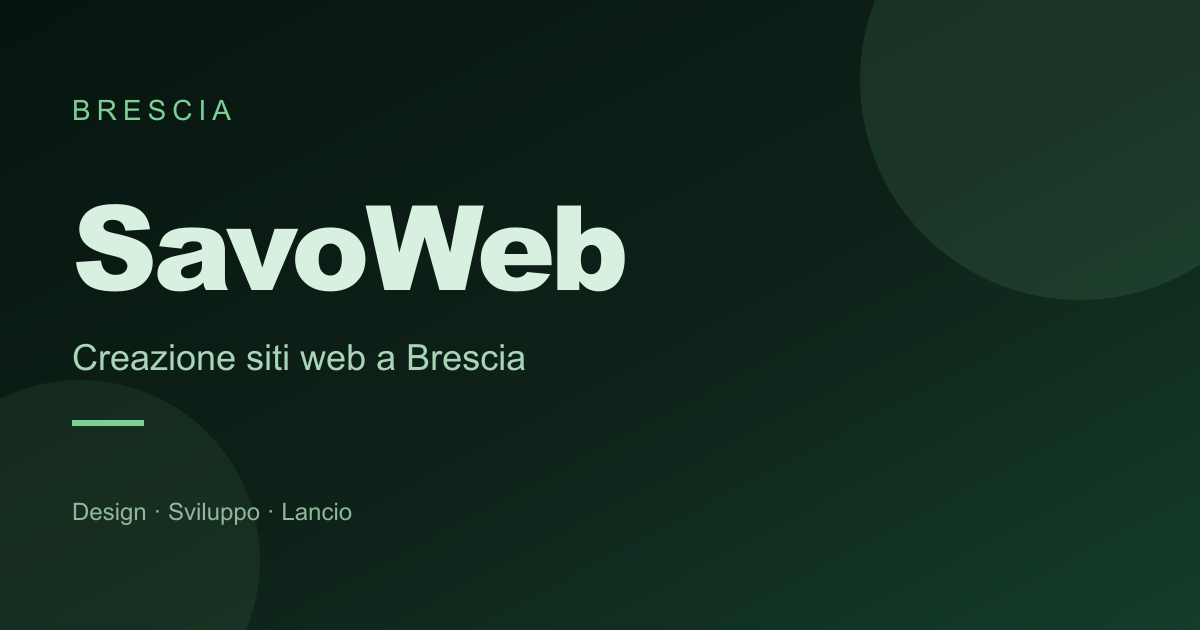
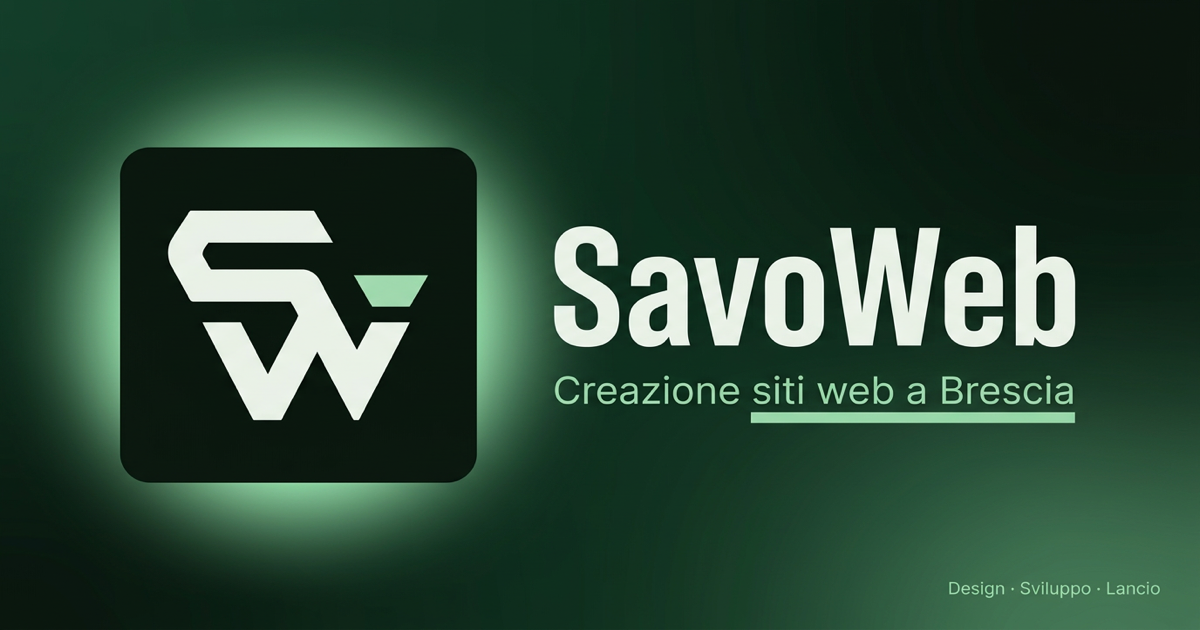
Improve WhatsApp share preview and remove Zoho verify.

diff --git a/index.html b/index.html
@@ -17,7 +17,7 @@
     <meta name="author" content="SavoWeb" />
     <meta name="robots" content="index, follow, max-image-preview:large, max-snippet:-1, max-video-preview:-1" />
     <meta name="googlebot" content="index, follow" />
-    <link rel="canonical" href="https://savoweb.com/" />
+    <link rel="canonical" href="https://savoweb.it/" />
 
     <!-- Local / Geo SEO Brescia -->
     <meta name="geo.region" content="IT-BS" />
@@ -27,34 +27,34 @@
     <meta name="language" content="Italian" />
     <meta name="revisit-after" content="7 days" />
 
-    <!-- Open Graph / Facebook / LinkedIn -->
+    <!-- Open Graph / WhatsApp / Facebook / LinkedIn -->
     <meta property="og:type" content="website" />
     <meta property="og:locale" content="it_IT" />
     <meta property="og:locale:alternate" content="en_US" />
     <meta property="og:site_name" content="SavoWeb" />
-    <meta property="og:url" content="https://savoweb.com/" />
-    <meta property="og:title" content="SavoWeb | Creazione siti web a Brescia" />
+    <meta property="og:url" content="https://savoweb.it/" />
+    <meta property="og:title" content="SavoWeb — Creazione siti web a Brescia" />
     <meta
       property="og:description"
       content="Agenzia web a Brescia: siti moderni, e-commerce e brand digitali. Design, sviluppo e lancio — tutto sotto un unico tetto."
     />
-    <meta property="og:image" content="https://savoweb.com/og-image.png" />
-    <meta property="og:image:secure_url" content="https://savoweb.com/og-image.png" />
+    <meta property="og:image" content="https://savoweb.it/og-image.png?v=2" />
+    <meta property="og:image:secure_url" content="https://savoweb.it/og-image.png?v=2" />
     <meta property="og:image:type" content="image/png" />
     <meta property="og:image:width" content="1200" />
     <meta property="og:image:height" content="630" />
-    <meta property="og:image:alt" content="SavoWeb — creazione siti web a Brescia" />
+    <meta property="og:image:alt" content="Logo SavoWeb — creazione siti web a Brescia" />
 
     <!-- Twitter / X -->
     <meta name="twitter:card" content="summary_large_image" />
-    <meta name="twitter:url" content="https://savoweb.com/" />
-    <meta name="twitter:title" content="SavoWeb | Creazione siti web a Brescia" />
+    <meta name="twitter:url" content="https://savoweb.it/" />
+    <meta name="twitter:title" content="SavoWeb — Creazione siti web a Brescia" />
     <meta
       name="twitter:description"
       content="Agenzia web a Brescia: siti moderni, e-commerce e brand digitali che lasciano il segno."
     />
-    <meta name="twitter:image" content="https://savoweb.com/og-image.png" />
-    <meta name="twitter:image:alt" content="SavoWeb — creazione siti web a Brescia" />
+    <meta name="twitter:image" content="https://savoweb.it/og-image.png?v=2" />
+    <meta name="twitter:image:alt" content="Logo SavoWeb — creazione siti web a Brescia" />
 
     <!-- Theme & icons -->
     <meta name="theme-color" content="#07140F" />
@@ -79,12 +79,12 @@
         "@graph": [
           {
             "@type": ["ProfessionalService", "LocalBusiness"],
-            "@id": "https://savoweb.com/#business",
+            "@id": "https://savoweb.it/#business",
             "name": "SavoWeb",
             "alternateName": "SavoWeb Brescia",
-            "url": "https://savoweb.com/",
-            "logo": "https://savoweb.com/logo.svg",
-            "image": "https://savoweb.com/og-image.png",
+            "url": "https://savoweb.it/",
+            "logo": "https://savoweb.it/logo-mark.png",
+            "image": "https://savoweb.it/og-image.png",
             "description": "Agenzia web a Brescia specializzata in creazione siti web, web design, e-commerce e sviluppo digitale.",
             "email": "info@savoweb.com",
             "priceRange": "€€",
@@ -133,29 +133,29 @@
           },
           {
             "@type": "WebSite",
-            "@id": "https://savoweb.com/#website",
-            "url": "https://savoweb.com/",
+            "@id": "https://savoweb.it/#website",
+            "url": "https://savoweb.it/",
             "name": "SavoWeb",
             "description": "Creazione siti web a Brescia — agenzia web SavoWeb",
-            "publisher": { "@id": "https://savoweb.com/#business" },
+            "publisher": { "@id": "https://savoweb.it/#business" },
             "inLanguage": "it-IT"
           },
           {
             "@type": "WebPage",
-            "@id": "https://savoweb.com/#webpage",
-            "url": "https://savoweb.com/",
+            "@id": "https://savoweb.it/#webpage",
+            "url": "https://savoweb.it/",
             "name": "SavoWeb | Creazione siti web a Brescia",
-            "isPartOf": { "@id": "https://savoweb.com/#website" },
-            "about": { "@id": "https://savoweb.com/#business" },
+            "isPartOf": { "@id": "https://savoweb.it/#website" },
+            "about": { "@id": "https://savoweb.it/#business" },
             "description": "Siti web moderni e performanti per aziende e professionisti a Brescia e in Lombardia.",
             "inLanguage": "it-IT"
           },
           {
             "@type": "Service",
-            "@id": "https://savoweb.com/#service-siti-web",
+            "@id": "https://savoweb.it/#service-siti-web",
             "name": "Creazione siti web a Brescia",
             "serviceType": "Creazione siti web",
-            "provider": { "@id": "https://savoweb.com/#business" },
+            "provider": { "@id": "https://savoweb.it/#business" },
             "areaServed": {
               "@type": "City",
               "name": "Brescia"
